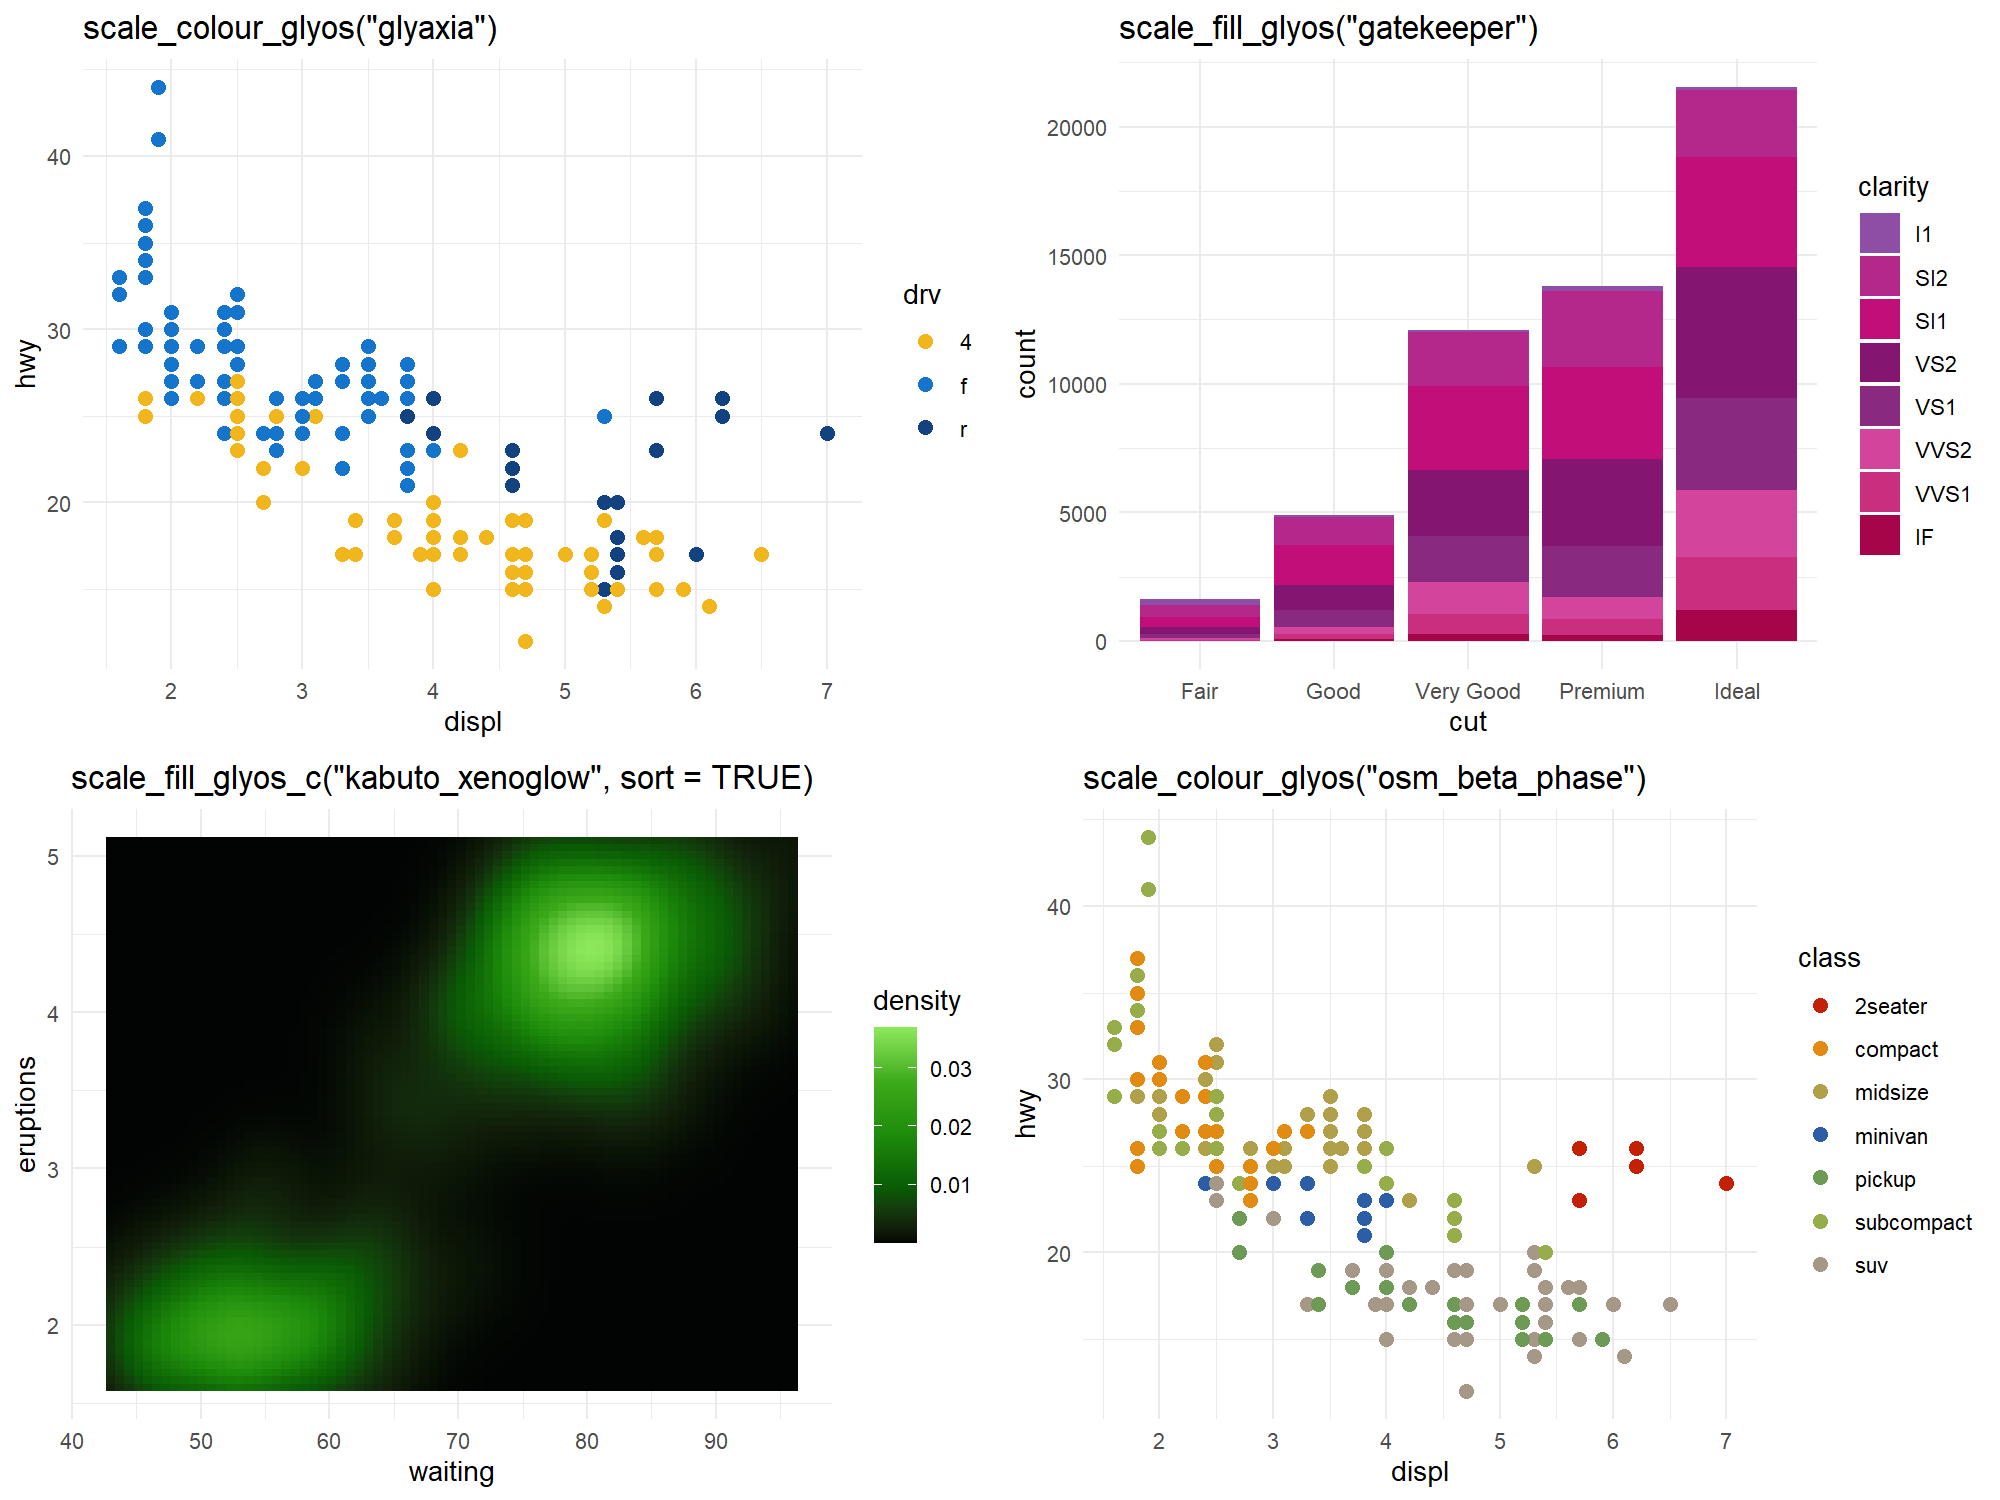
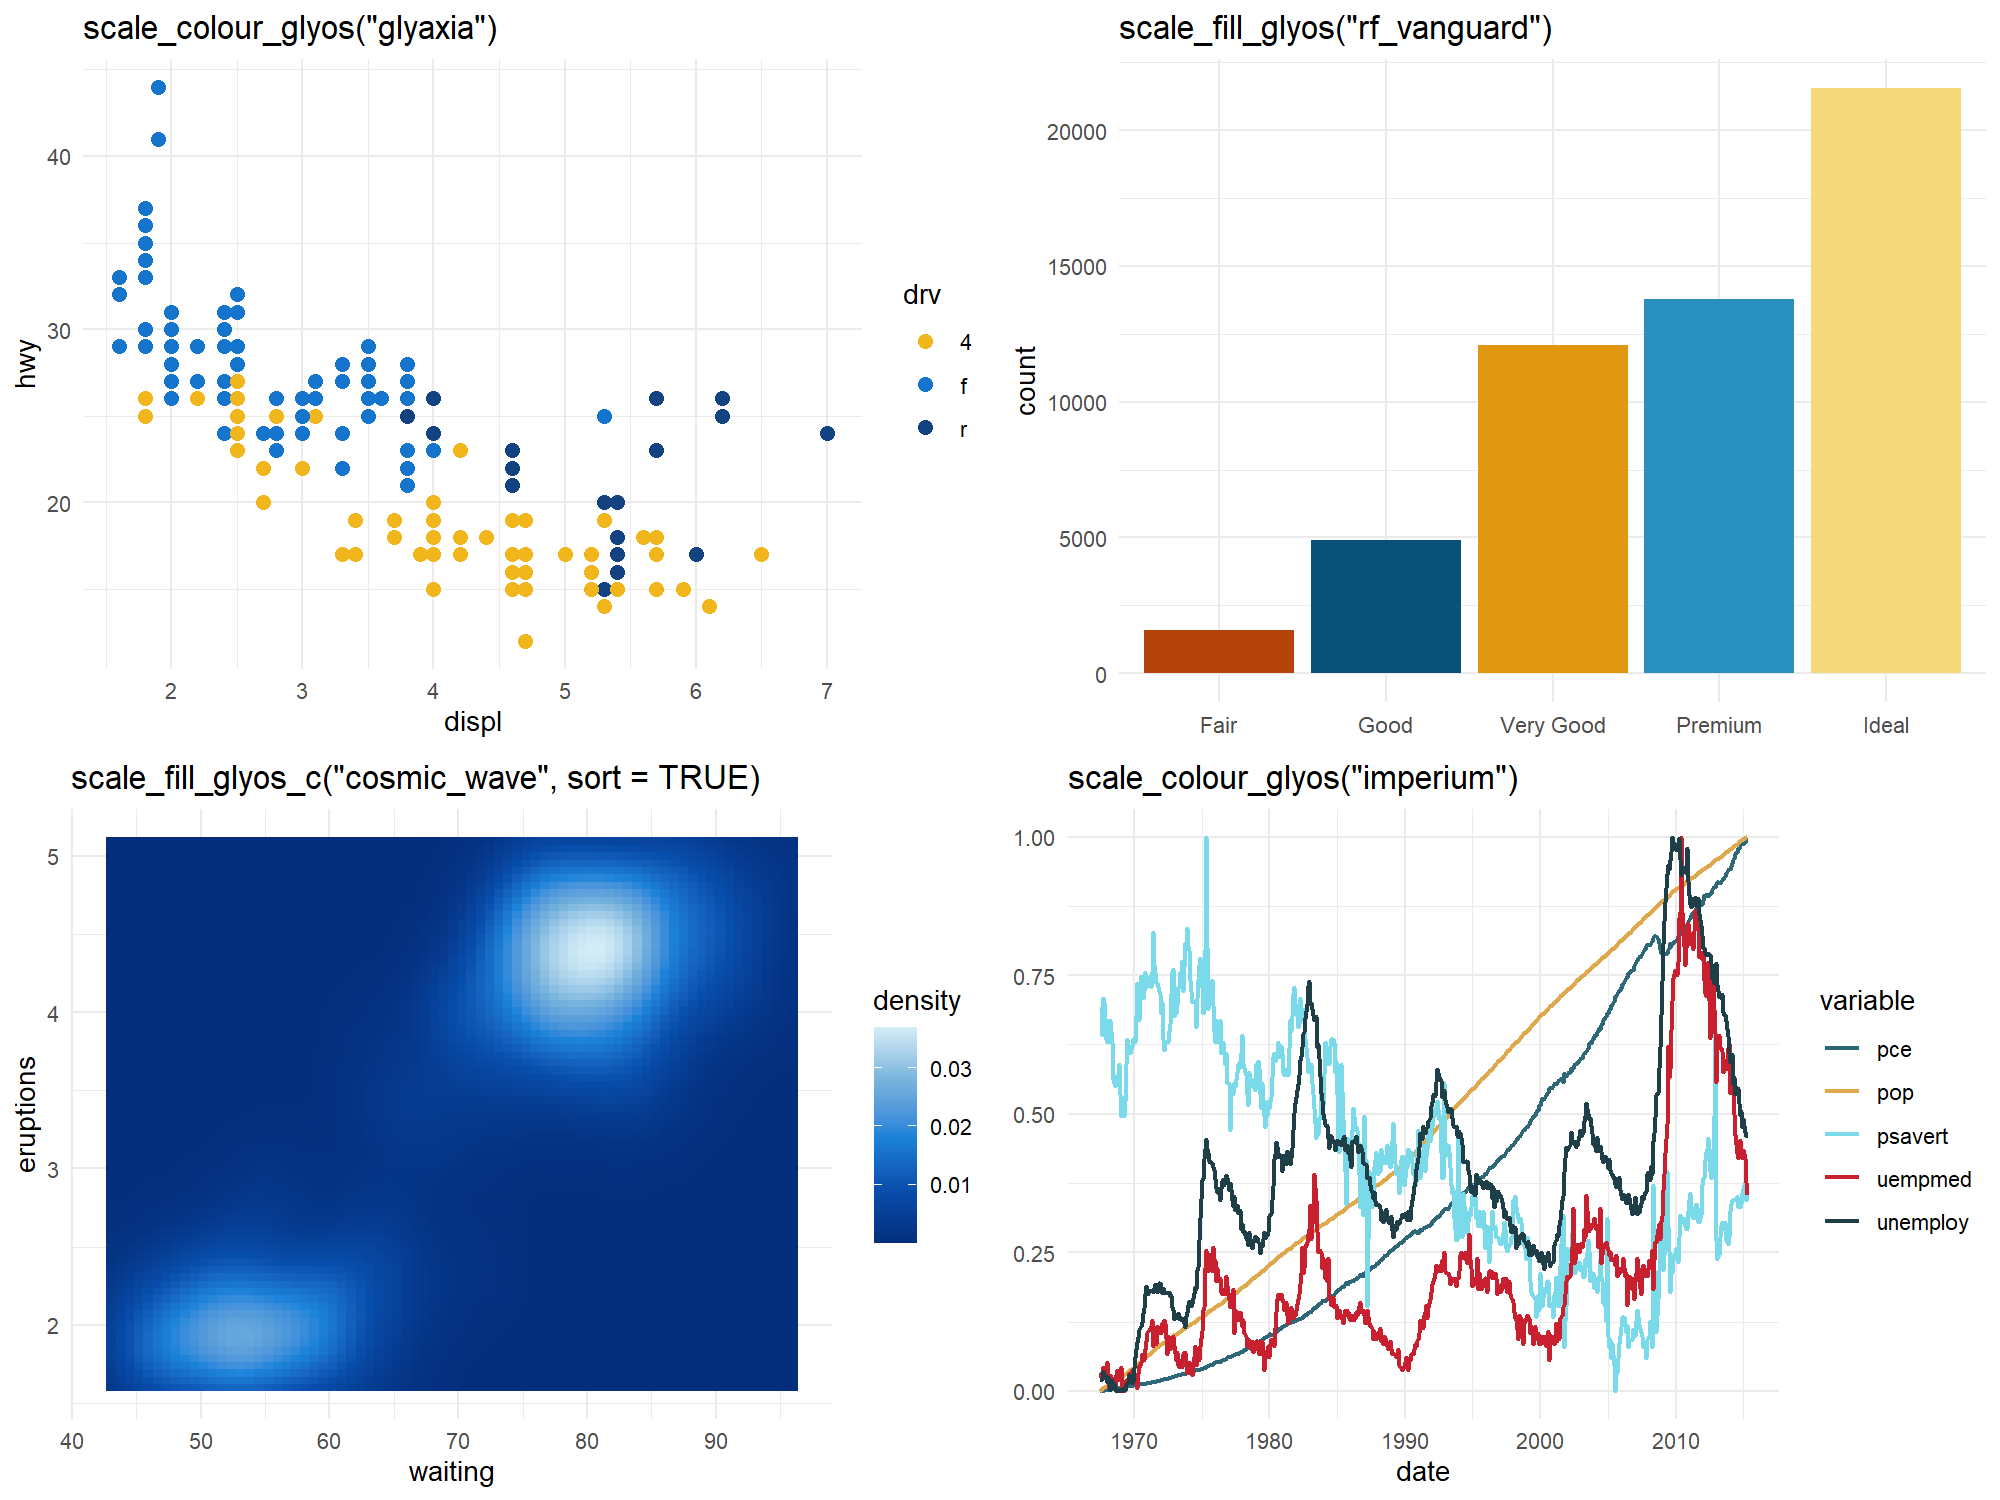
example figures

diff --git a/README.md b/README.md
@@ -71,17 +71,17 @@ ggplot(mpg, aes(displ, hwy, colour = drv)) +
   geom_point(size = 2.5) +
   scale_colour_glyos("glyaxia")
 
-ggplot(diamonds, aes(cut, fill = clarity)) +
+ggplot(diamonds, aes(cut, fill = cut)) +
   geom_bar() +
-  scale_fill_glyos("gatekeeper")
+  scale_fill_glyos("rf_vanguard")
 
 ggplot(faithfuld, aes(waiting, eruptions, fill = density)) +
-  geom_tile() +
-  scale_fill_glyos_c("kabuto_xenoglow", sort = TRUE)
+  geom_raster() +
+  scale_fill_glyos_c("cosmic_wave", sort = TRUE)
 
-ggplot(mpg, aes(displ, hwy, colour = class)) +
-  geom_point(size = 2.5) +
-  scale_colour_glyos("osm_beta_phase")
+ggplot(economics_long, aes(date, value01, colour = variable)) +
+  geom_line() +
+  scale_colour_glyos("imperium")
 ```
 
 ![Example ggplot2 scales](man/figures/examples.png)
